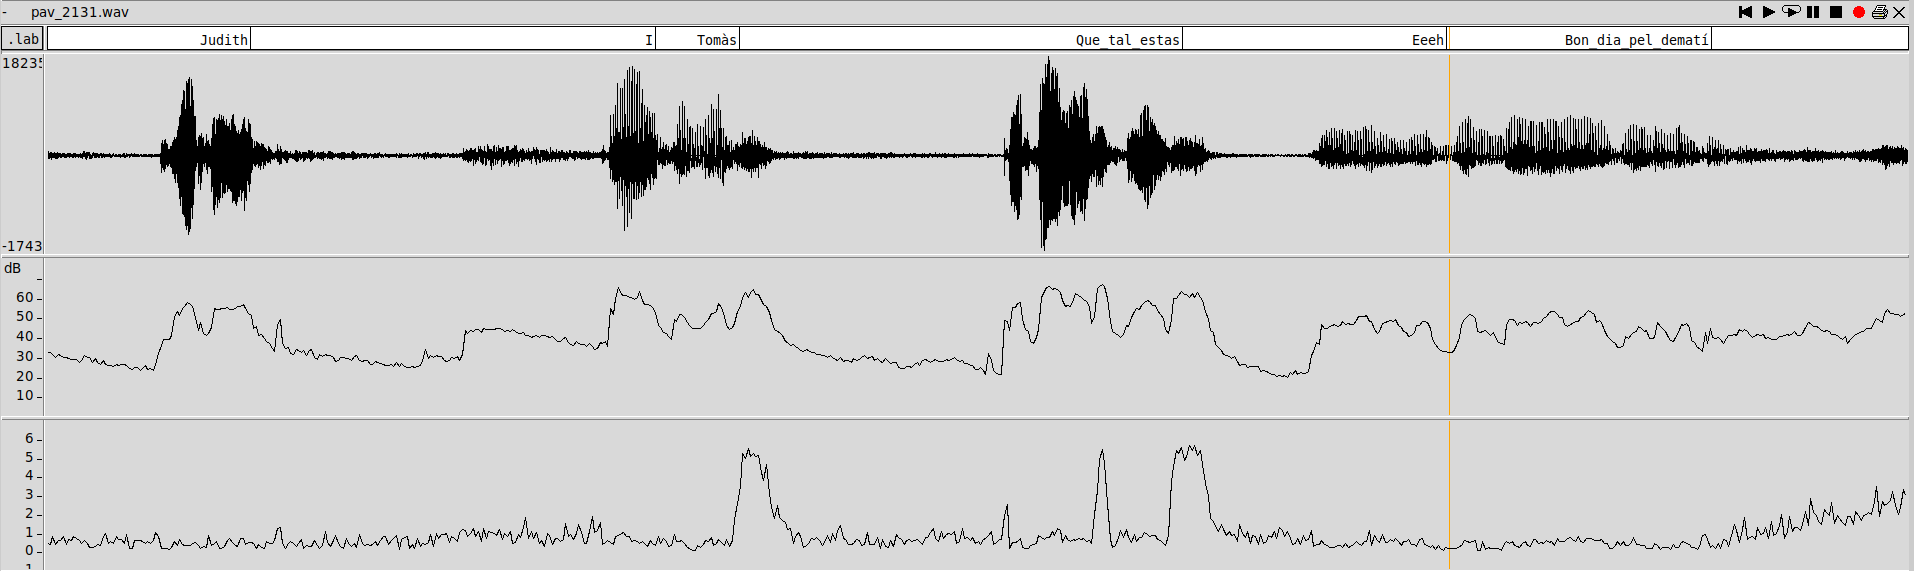
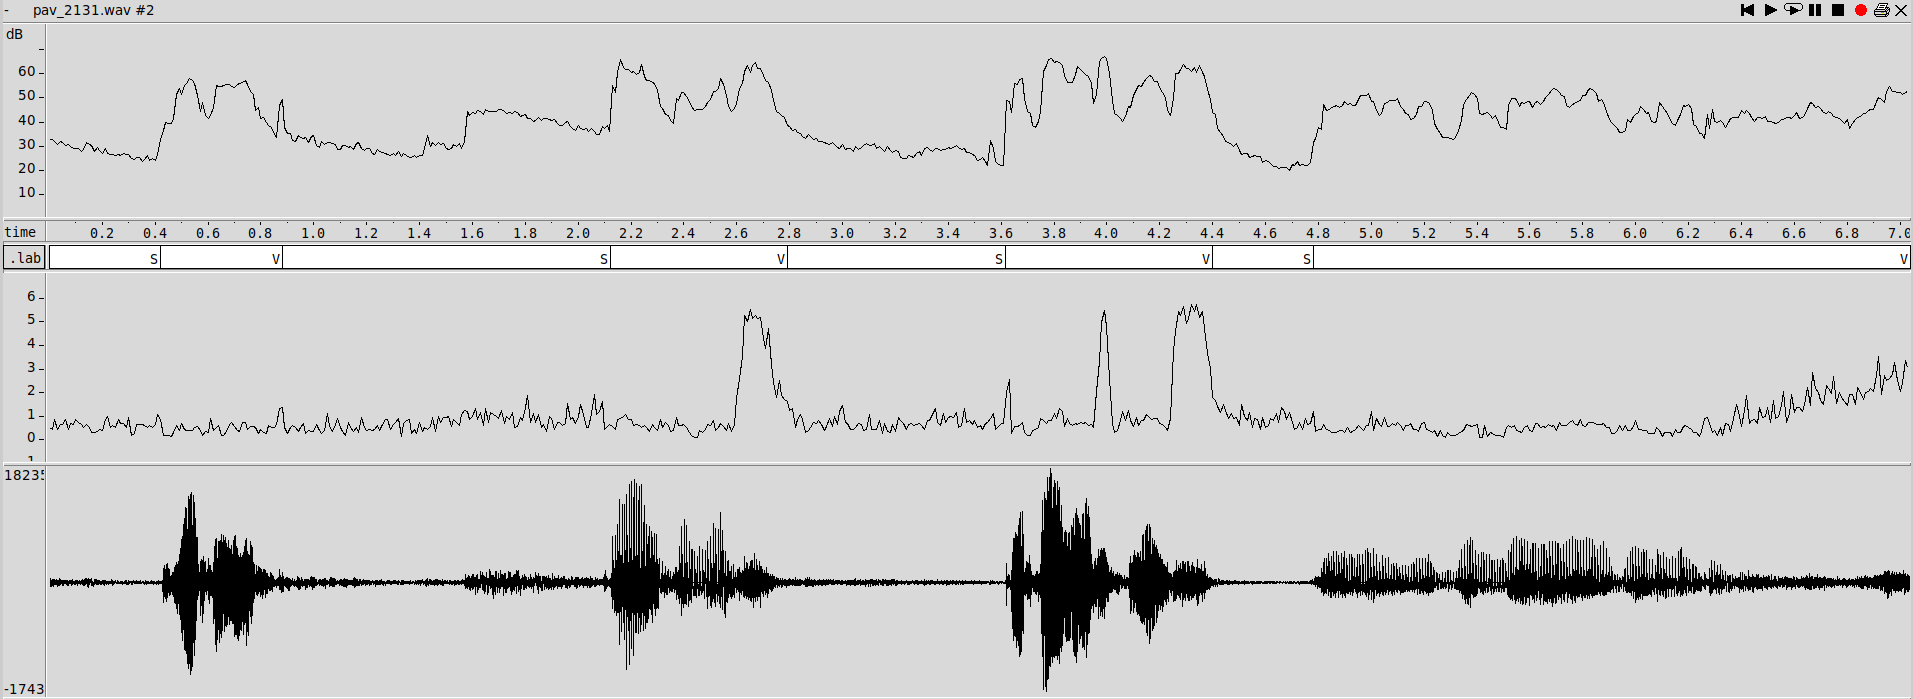
modificada la grafica amb labels

diff --git a/README.md b/README.md
@@ -182,6 +182,11 @@ Ejercicios
   continuación las tasas de sensibilidad (*recall*) y precisión para el conjunto de la base de datos (sólo
   el resumen).
 
+[**************** Summary ****************]
+Recall V:572.57/590.75 96.92%   Precision V:572.57/628.23 91.14%   F-score V (2)  : 95.71%
+Recall S:320.59/376.26 85.21%   Precision S:320.59/338.77 94.63%   F-score S (1/2): 92.58%
+===> TOTAL: 94.133%
+
 
 ### Trabajos de ampliación
 
